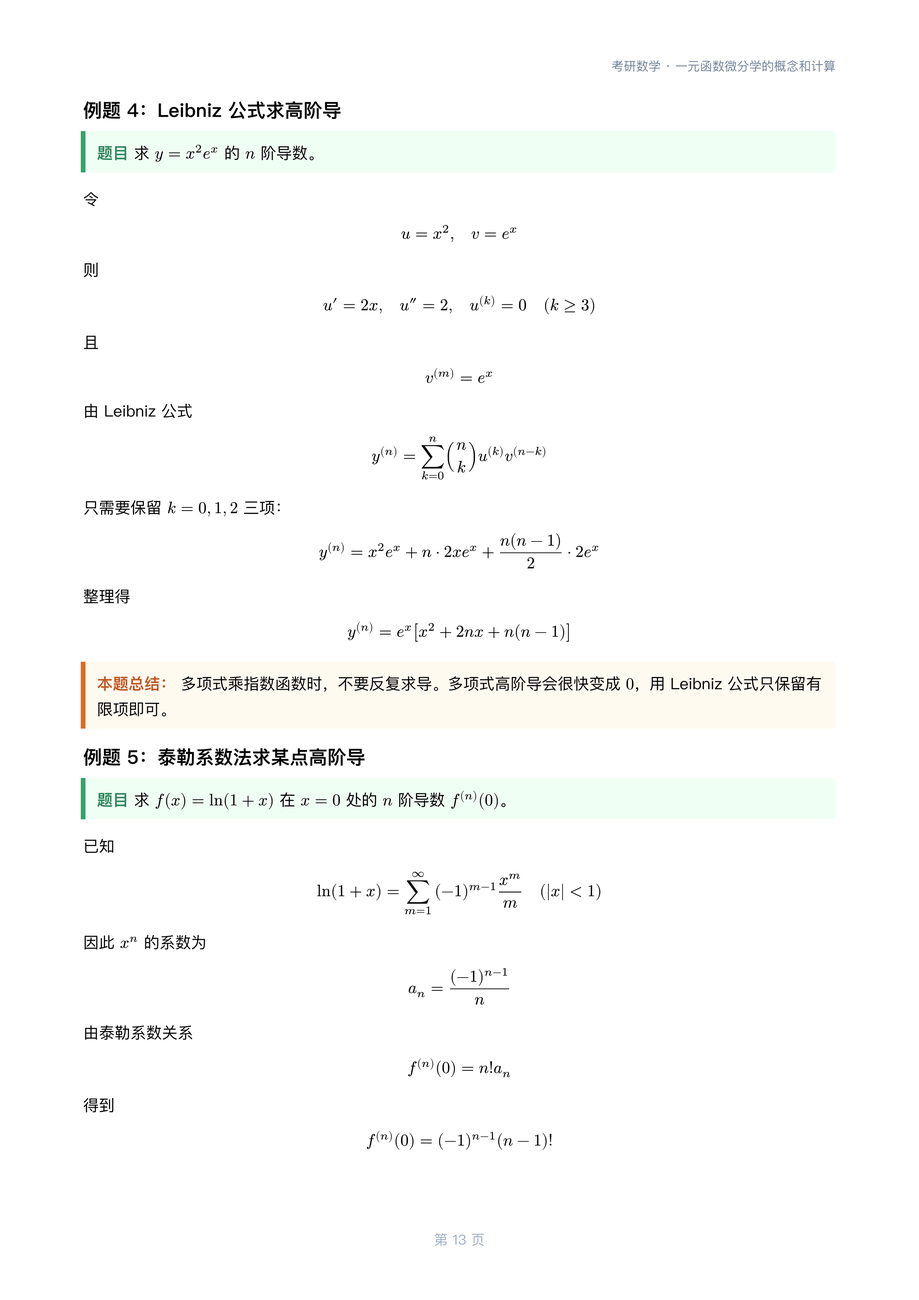
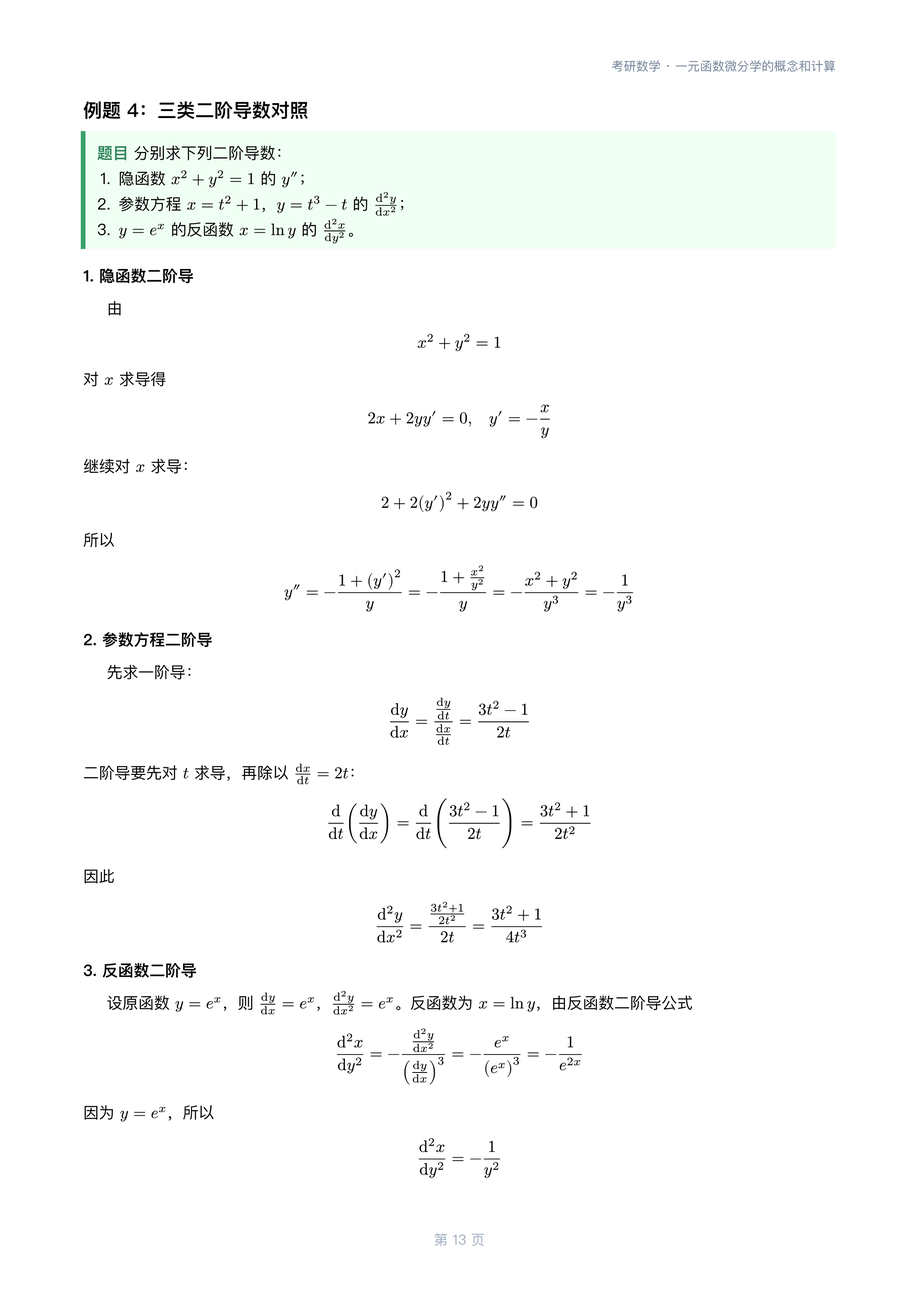
Add special second derivative methods

diff --git a/ebook/data.js b/ebook/data.js
@@ -2,10 +2,10 @@
 window.BOOK_MANIFEST = {
   "title": "考研数学电子书",
   "subtitle": "微积分 · 线性代数 · 概率论",
-  "generatedAt": "2026-08-05T10:15:49+08:00",
+  "generatedAt": "2026-08-05T10:34:04+08:00",
   "stats": {
     "documents": 23,
-    "pages": 273,
+    "pages": 274,
     "renderDpi": 260,
     "pageRenderer": "typst-direct-webp",
     "pageImageExtension": "webp",
@@ -119,7 +119,7 @@ window.BOOK_MANIFEST = {
           "sourcePath": "typst/Differential Calculus Concepts and Computation (一元函数微分学的概念和计算).typ",
           "pageImageBase": "./rendered-pages/doc-31985d1e27f4/page-",
           "pageImageExtension": "webp",
-          "pageCount": 14,
+          "pageCount": 15,
           "sections": [
             {
               "id": "doc-31985d1e27f4-s1",
@@ -1396,7 +1396,7 @@ window.BOOK_MANIFEST = {
       "sourcePath": "typst/Differential Calculus Concepts and Computation (一元函数微分学的概念和计算).typ",
       "pageImageBase": "./rendered-pages/doc-31985d1e27f4/page-",
       "pageImageExtension": "webp",
-      "pageCount": 14,
+      "pageCount": 15,
       "sections": [
         {
           "id": "doc-31985d1e27f4-s1",
@@ -2705,7 +2705,7 @@ window.SEARCH_INDEX = [
     "page": 7,
     "heading": "一元函数微分学的概念和计算",
     "snippet": "四、求导法则 1. 四则运算 若 u u x ， v v x 可导，则 u+v ' u'+v' u v ' u'v+u v' u/v ' u'v-u v' /v^2 quad v ! 0 2. 复合函数求导 若 y f u ， u g x ，则 dif y / dif x dif y / dif u dot dif u / dif x f...",
-    "text": "Differential Calculus Concepts and Computation (一元函数微分学的概念和计算) Differential Calculus Concepts and Computation 一元函数微分学的概念和计算 微积分 一元函数微分学的概念和计算 四、求导法则 1. 四则运算 若 u u x ， v v x 可导，则 u+v ' u'+v' u v ' u'v+u v' u/v ' u'v-u v' /v^2 quad v ! 0 2. 复合函数求导 若 y f u ， u g x ，则 dif y / dif x dif y / dif u dot dif u / dif x f' g x g' x 链式法则的关键是从外到内逐层求导，每层都不能漏。 3. 反函数求导 若 y f x 单调可导，且 f' x ! 0 ，其反函数 x phi y 满足 dif x / dif y 1/ dif y / dif x 常用于反三角函数和由方程确定的反函数。 4. 隐函数求导 若 F x,y 0 确定 y y x ，则两边对 x 求导，把 y 看成 x 的函数： F x+F y y' 0 若 F y ! 0 ，则 y' -F x/F y 5. 参数方程求导 若 x x t , quad y y t 且 x' t ! 0 ，则 dif y / dif x dif y / dif t / dif x / dif t y' t /x' t 二阶导数为 dif^2 y / dif x^2 dif / dif t dif y / dif x / dif x / dif t 6. 对数求导法 当函数含有乘积、商、幂指函数时，常先取对数再求导。例如 y u x ^ v x 两边取对数： ln y v ln u 再求导： y'/y v' ln u+v u'/u"
+    "text": "Differential Calculus Concepts and Computation (一元函数微分学的概念和计算) Differential Calculus Concepts and Computation 一元函数微分学的概念和计算 微积分 一元函数微分学的概念和计算 四、求导法则 1. 四则运算 若 u u x ， v v x 可导，则 u+v ' u'+v' u v ' u'v+u v' u/v ' u'v-u v' /v^2 quad v ! 0 2. 复合函数求导 若 y f u ， u g x ，则 dif y / dif x dif y / dif u dot dif u / dif x f' g x g' x 链式法则的关键是从外到内逐层求导，每层都不能漏。 3. 反函数求导 若 y f x 单调可导，且 f' x ! 0 ，其反函数 x phi y 满足 dif x / dif y 1/ dif y / dif x 常用于反三角函数和由方程确定的反函数。 若继续求二阶导，要注意现在自变量是 y ： dif^2 x / dif y^2 - dif^2 y / dif x^2 / dif y / dif x ^3 等价地，若记反函数为 g f^ -1 ，即 y g x ，则 g'' x -f'' g x / f' g x ^3 4. 隐函数求导 若 F x,y 0 确定 y y x ，则两边对 x 求导，把 y 看成 x 的函数： F x+F y y' 0 若 F y ! 0 ，则 y' -F x/F y 二阶导数可继续对 x 求导。若二阶偏导连续，则 y'' - F x x +2 F x y y'+F y y y' ^2 /F y 实际计算时也可以先求出 y' ，再把 y' 作为关于 x 的函数继续求导。 5. 参数方程求导 若 x x t , quad y y t 且 x' t ! 0 ，则 dif y / dif x dif y / dif t / dif x / dif t 二阶导数为 dif^2 y / dif x^2 dif / dif t dif y / dif x / dif x / dif t 也可写成便于代入的形式： dif^2 y / dif x^2 dif^2 y / dif t^2 dif x / dif t - dif y / dif t dif^2 x / dif t^2 / dif x / dif t ^3 6. 二阶导数的三种特殊情况 columns: 1.35fr, 2.35fr, 2.8fr , align: center, left, left , stroke: 0.5pt + rgb , fill: x, y if y 0 rgb else if calc.rem y, 2 0 rgb , 类型 , 一阶导 , 二阶导关键 , 隐函数 F x,y 0 , y' -F x/F y , 继续对 x 求导， y 仍看作 y x , 参数方程 x x t , y y t , dif y / dif x dif y / dif t / dif x / dif t , 先对 t 求导，再除以 dif x / dif t , 反函数 y f x , dif x / dif y 1/ dif y / dif x , 二阶导是对反函数自变量继续求导 , 二阶导数不是“把一阶导再随便求一次”。隐函数和普通函数是对 x 求导；参数方程要先对 t 求导再除以 dif x / dif t ；反函数要分清是求 dif^2 x / dif y^2 还是求 g'' x 。 7. 对数求导法 当函数含有乘积、商、幂指函数时，常先取对数再求导。例如 y u x ^ v x 两边取对数： ln y v ln u 再求导： y'/y v' ln u+v u'/u"
   },
   {
     "id": "doc-31985d1e27f4-p9",
@@ -2715,7 +2715,7 @@ window.SEARCH_INDEX = [
     "page": 9,
     "heading": "一元函数微分学的概念和计算",
     "snippet": "五、高阶导数与常见结构 1. 高阶导数 若 f' x 仍可导，则称其导数为二阶导数： f'' x f' x ' 依次可定义 n 阶导数 f^ n x 。 2. 常见高阶导数 columns: 2fr, 2.4fr , align: center, left , stroke: 0.5pt + rgb , fill: x, y if y 0...",
-    "text": "Differential Calculus Concepts and Computation (一元函数微分学的概念和计算) Differential Calculus Concepts and Computation 一元函数微分学的概念和计算 微积分 一元函数微分学的概念和计算 五、高阶导数与常见结构 1. 高阶导数 若 f' x 仍可导，则称其导数为二阶导数： f'' x f' x ' 依次可定义 n 阶导数 f^ n x 。 2. 常见高阶导数 columns: 2fr, 2.4fr , align: center, left , stroke: 0.5pt + rgb , fill: x, y if y 0 rgb else if calc.rem y, 2 0 rgb , 函数 , n 阶导数 , e^ a x , a^n e^ a x , sin x , 按 sin x, cos x, -sin x, -cos x 循环 , ln 1+x , -1 ^ n-1 n-1 !/ 1+x ^n , 1/ 1-x , n!/ 1-x ^ n+1 , 3. 高阶导数计算的常见处理方法 高阶导数题先判断目标：是求一般的 f^ n x ，还是只求某点处的 f^ n x 0 。前者通常需要找规律或套公式，后者常用泰勒系数最快。 columns: 1.45fr, 2.75fr, 2.75fr , align: center, left, left , stroke: 0.5pt + rgb , fill: x, y if y 0 rgb else if calc.rem y, 2 0 rgb , 方法 , 适用结构 , 核心做法 , 直接求导找规律 , 指数、三角、简单幂函数 , 先求前几阶，观察系数、符号和周期 , 循环规律法 , sin x, cos x, e^ a x sin b x 等 , 三角函数按四阶循环；指数三角可转化为幅角循环 , 奇偶周期法 , 只求 0 点高阶导或三角周期结构 , 由奇偶性先判零；由周期性把阶数按循环节取模 , 拆项与部分分式 , 有理函数、分式函数 , 先化成若干简单项，再分别求 n 阶导 , Leibniz 公式 , 两个函数乘积的 n 阶导数 , 用组合数展开，尤其适合多项式乘指数或三角 , 泰勒系数法 , 只求 x 0 点处高阶导数 , 展开 f x sum a n x-x 0 ^n ，则 f^ n x 0 n! a n , 递推关系法 , 函数满足方程、隐式关系或导数能回到自身 , 由低阶导数推出高阶导数通式 , Leibniz 公式 若 u x ,v x 有足够高阶导数，则 u v ^ n sum k 0 ^n binom n,k u^ k v^ n-k 特别地，若 u x 是 m 次多项式，则 u^ k 0 当 k m ，所以求和只保留有限几项。这个特点使 x^m e^ a x 、 x^m sin x 、 x^m cos x 的高阶导数计算明显简化。 泰勒系数法 若在 x 0 附近 f x sum n 0 ^infinity a n x-x 0 ^n 则 f^ n x 0 n! a n 这个方法适合只问某点高阶导数，例如 f^ 20 0 、 f^ n 0 。不用真的求二十次导数，只要找出对应次幂的系数。 4. 奇偶性、周期性在高阶导数中的应用 奇偶性和周期性本质上不是新的求导公式，而是“先判断结构，再减少计算量”的工具。它们常用于两类问题：一类是求 x 0 处的高阶导数，另一类是三角函数或周期函数的高阶导数。 奇偶性与高阶导数 若 f x 有足够高阶导数，则： f 为偶函数 f^ n -x -1 ^n f^ n x f 为奇函数 f^ n -x -1 ^ n+1 f^ n x 因此： - 偶函数求奇数阶导数时， f^ 2 k+1 x 是奇函数，若在 0 点有定义，则 f^ 2 k+1 0 0 。 - 奇函数求偶数阶导数时， f^ 2 k x 是奇函数，若在 0 点有定义，则 f^ 2 k 0 0 。 - 用泰勒展开理解更直接：偶函数在 0 附近只含偶次幂，奇函数只含奇次幂，所以不匹配的阶数对应系数为 0 。 周期性与高阶导数 若 f x 的周期为 T ，且 f 有足够高阶导数，则 f x+T f x f^ n x+T f^ n x 特别地， sin x ^ n sin x+ n pi /2 , quad cos x ^ n cos x+ n pi /2 使用周期性时有两个“取模”： - 对自变量取模：若 f^ n 仍以 T 为周期，则可把 x 化到熟悉区间内。 - 对阶数取模：若高阶导数按若干项循环，例如 sin x 、 cos x 每 4 阶循环，则先看 n 除以 4 的余数。 做题判断流程 1. 先看函数整体奇偶性。若只求 f^ n 0 ，优先判断该阶导数在 0 点是否必为 0 。\\ 2. 再看函数是否有周期或导数循环。三角函数通常按 4 阶循环，先把阶数对 4 取余。\\ 3. 若函数是“多项式乘三角函数”，奇偶性只能辅助判零，通式仍常用 Leibniz 公式。\\ 4. 若函数不是周期函数，例如 e^ a x sin b x 且 a ! 0 ，不能说函数周期，但可用复数或幅角形式处理导数结构。 实战选择顺序 1. 若要求 f^ n x ，先求前几阶，看是否有周期、符号或系数规律。\\ 2. 若只求 x 0 处的高阶导数，先用奇偶性判断是否为 0 ，再用泰勒系数法求非零项。\\ 3. 若函数是乘积，尤其是一项多项式乘一个容易求高阶导的函数，优先用 Leibniz 公式。\\ 4. 若函数是有理式，先做多项式除法、拆项或部分分式，再套基本高阶导公式。\\ 5. 若只求 f^ n 0 或 f^ n x 0 ，优先考虑泰勒展开或幂级数。\\ 6. 若题目给出方程关系，例如 y' a y+b 、 F x,y 0 ，可通过递推逐阶求导。 高阶导数最常见的错误是机械反复求导而不找结构。看到 n 阶导数，第一反应应是“找通式”：能循环就循环，能拆项就拆项，能用泰勒系数就不要硬求导。"
+    "text": "Differential Calculus Concepts and Computation (一元函数微分学的概念和计算) Differential Calculus Concepts and Computation 一元函数微分学的概念和计算 微积分 一元函数微分学的概念和计算 五、高阶导数与常见结构 1. 高阶导数 若 f' x 仍可导，则称其导数为二阶导数： f'' x f' x ' 依次可定义 n 阶导数 f^ n x 。 2. 常见高阶导数 columns: 2fr, 2.4fr , align: center, left , stroke: 0.5pt + rgb , fill: x, y if y 0 rgb else if calc.rem y, 2 0 rgb , 函数 , n 阶导数 , e^ a x , a^n e^ a x , sin x , 按 sin x, cos x, -sin x, -cos x 循环 , ln 1+x , -1 ^ n-1 n-1 !/ 1+x ^n , 1/ 1-x , n!/ 1-x ^ n+1 , 3. 高阶导数计算的常见处理方法 高阶导数题先判断目标：是求一般的 f^ n x ，还是只求某点处的 f^ n x 0 。前者通常需要找规律或套公式，后者常用泰勒系数最快。 columns: 1.45fr, 2.75fr, 2.75fr , align: center, left, left , stroke: 0.5pt + rgb , fill: x, y if y 0 rgb else if calc.rem y, 2 0 rgb , 方法 , 适用结构 , 核心做法 , 直接求导找规律 , 指数、三角、简单幂函数 , 先求前几阶，观察系数、符号和周期 , 循环规律法 , sin x, cos x, e^ a x sin b x 等 , 三角函数按四阶循环；指数三角可转化为幅角循环 , 奇偶周期法 , 只求 0 点高阶导或三角周期结构 , 由奇偶性先判零；由周期性把阶数按循环节取模 , 二阶特殊结构 , 隐函数、参数方程、反函数求二阶导 , 先辨认真正的自变量，再继续求导 , 拆项与部分分式 , 有理函数、分式函数 , 先化成若干简单项，再分别求 n 阶导 , Leibniz 公式 , 两个函数乘积的 n 阶导数 , 用组合数展开，尤其适合多项式乘指数或三角 , 泰勒系数法 , 只求 x 0 点处高阶导数 , 展开 f x sum a n x-x 0 ^n ，则 f^ n x 0 n! a n , 递推关系法 , 函数满足方程、隐式关系或导数能回到自身 , 由低阶导数推出高阶导数通式 , Leibniz 公式 若 u x ,v x 有足够高阶导数，则 u v ^ n sum k 0 ^n binom n,k u^ k v^ n-k 特别地，若 u x 是 m 次多项式，则 u^ k 0 当 k m ，所以求和只保留有限几项。这个特点使 x^m e^ a x 、 x^m sin x 、 x^m cos x 的高阶导数计算明显简化。 泰勒系数法 若在 x 0 附近 f x sum n 0 ^infinity a n x-x 0 ^n 则 f^ n x 0 n! a n 这个方法适合只问某点高阶导数，例如 f^ 20 0 、 f^ n 0 。不用真的求二十次导数，只要找出对应次幂的系数。 4. 奇偶性、周期性在高阶导数中的应用 奇偶性和周期性本质上不是新的求导公式，而是“先判断结构，再减少计算量”的工具。它们常用于两类问题：一类是求 x 0 处的高阶导数，另一类是三角函数或周期函数的高阶导数。 奇偶性与高阶导数 若 f x 有足够高阶导数，则： f 为偶函数 f^ n -x -1 ^n f^ n x f 为奇函数 f^ n -x -1 ^ n+1 f^ n x 因此： - 偶函数求奇数阶导数时， f^ 2 k+1 x 是奇函数，若在 0 点有定义，则 f^ 2 k+1 0 0 。 - 奇函数求偶数阶导数时， f^ 2 k x 是奇函数，若在 0 点有定义，则 f^ 2 k 0 0 。 - 用泰勒展开理解更直接：偶函数在 0 附近只含偶次幂，奇函数只含奇次幂，所以不匹配的阶数对应系数为 0 。 周期性与高阶导数 若 f x 的周期为 T ，且 f 有足够高阶导数，则 f x+T f x f^ n x+T f^ n x 特别地， sin x ^ n sin x+ n pi /2 , quad cos x ^ n cos x+ n pi /2 使用周期性时有两个“取模”： - 对自变量取模：若 f^ n 仍以 T 为周期，则可把 x 化到熟悉区间内。 - 对阶数取模：若高阶导数按若干项循环，例如 sin x 、 cos x 每 4 阶循环，则先看 n 除以 4 的余数。 做题判断流程 1. 先看函数整体奇偶性。若只求 f^ n 0 ，优先判断该阶导数在 0 点是否必为 0 。\\ 2. 再看函数是否有周期或导数循环。三角函数通常按 4 阶循环，先把阶数对 4 取余。\\ 3. 若函数是“多项式乘三角函数”，奇偶性只能辅助判零，通式仍常用 Leibniz 公式。\\ 4. 若函数不是周期函数，例如 e^ a x sin b x 且 a ! 0 ，不能说函数周期，但可用复数或幅角形式处理导数结构。 实战选择顺序 1. 若要求 f^ n x ，先求前几阶，看是否有周期、符号或系数规律。\\ 2. 若只求 x 0 处的高阶导数，先用奇偶性判断是否为 0 ，再用泰勒系数法求非零项。\\ 3. 若题目问隐函数、参数方程、反函数的二阶导，先判断真正的自变量，再选对应公式。\\ 4. 若函数是乘积，尤其是一项多项式乘一个容易求高阶导的函数，优先用 Leibniz 公式。\\ 5. 若函数是有理式，先做多项式除法、拆项或部分分式，再套基本高阶导公式。\\ 6. 若只求 f^ n 0 或 f^ n x 0 ，优先考虑泰勒展开或幂级数。\\ 7. 若题目给出方程关系，例如 y' a y+b 、 F x,y 0 ，可通过递推逐阶求导。 高阶导数最常见的错误是机械反复求导而不找结构。看到 n 阶导数，第一反应应是“找通式”：能循环就循环，能拆项就拆项，能用泰勒系数就不要硬求导。"
   },
   {
     "id": "doc-31985d1e27f4-p12",
@@ -2725,7 +2725,7 @@ window.SEARCH_INDEX = [
     "page": 12,
     "heading": "一元函数微分学的概念和计算",
     "snippet": "六、典型例题 例题 1：导数定义 题目 设 f x x^2 ，用定义求 f' x 0 。 由定义 f' x 0 lim Delta x- 0 x 0+Delta x ^2-x 0^2 / Delta x lim Delta x- 0 2 x 0 Delta x+ Delta x ^2 / Delta x lim Delta x- 0 2 ...",
-    "text": "Differential Calculus Concepts and Computation (一元函数微分学的概念和计算) Differential Calculus Concepts and Computation 一元函数微分学的概念和计算 微积分 一元函数微分学的概念和计算 六、典型例题 例题 1：导数定义 题目 设 f x x^2 ，用定义求 f' x 0 。 由定义 f' x 0 lim Delta x- 0 x 0+Delta x ^2-x 0^2 / Delta x lim Delta x- 0 2 x 0 Delta x+ Delta x ^2 / Delta x lim Delta x- 0 2 x 0+Delta x 2 x 0 例题 2：隐函数求导 题目 由方程 x^2+x y+y^2 1 确定 y y x ，求 y' 。 两边对 x 求导： 2 x+ x y '+2 y y' 0 其中 x y ' y+x y' 所以 2 x+y+x y'+2 y y' 0 整理得 x+2 y y' - 2 x+y 因此 y' - 2 x+y / x+2 y 例题 3：参数方程求导 题目 设 x t^2+1 ， y t^3-t ，求 dif y / dif x 。 有 dif x / dif t 2 t, quad dif y / dif t 3 t^2-1 当 t ! 0 时， dif y / dif x 3 t^2-1 / 2 t 例题 4：Leibniz 公式求高阶导 题目 求 y x^2 e^x 的 n 阶导数。 令 u x^2, quad v e^x 则 u' 2 x, quad u'' 2, quad u^ k 0 quad k 3 且 v^ m e^x 由 Leibniz 公式 y^ n sum k 0 ^n binom n,k u^ k v^ n-k 只需要保留 k 0,1,2 三项： y^ n x^2 e^x+n dot 2 x e^x+ n n-1 /2 dot 2 e^x 整理得 y^ n e^x x^2+2 n x+n n-1 本题总结 多项式乘指数函数时，不要反复求导。多项式高阶导会很快变成 0 ，用 Leibniz 公式只保留有限项即可。 例题 5：泰勒系数法求某点高阶导 题目 求 f x ln 1+x 在 x 0 处的 n 阶导数 f^ n 0 。 已知 ln 1+x sum m 1 ^infinity -1 ^ m-1 x^m/m quad abs x 1 因此 x^n 的系数为 a n -1 ^ n-1 /n 由泰勒系数关系 f^ n 0 n! a n 得到 f^ n 0 -1 ^ n-1 n-1 ! 本题总结 只求某一点的高阶导数时，优先看能否展开为幂级数。找到 x^n 的系数后乘以 n! ，通常比逐次求导快得多。 例题 6：奇偶性辅助判断高阶导 题目 设 f x x sin x ，求 f^ 2025 0 与 f^ 2024 0 。 因为 x 与 sin x 都是奇函数，所以 f x x sin x 是偶函数。偶函数的奇数阶导数在 0 点为 0 ，故 f^ 2025 0 0 再用泰勒展开求偶数阶： x sin x x sum k 0 ^infinity -1 ^k x^ 2 k+1 / 2 k+1 ! sum k 0 ^infinity -1 ^k x^ 2 k+2 / 2 k+1 ! 令 2 k+2 2024 ，得 k 1011 ，所以 x^2024 的系数为 -1/2023! 。由泰勒系数法 f^ 2024 0 2024! dot -1 / 2023! -2024 本题总结 奇偶性先负责“判零”，泰勒系数法再负责“求非零值”。这比直接求 2024 阶导数更稳定。 例题 7：周期性辅助判断高阶导 题目 求 y sin x 的 2026 阶导数。 sin x 的高阶导数按四阶循环： sin x - cos x - -sin x - -cos x - sin x 因为 2026 4 dot 506+2 所以第 2026 阶对应循环中的第二个余数位置： y^ 2026 -sin x 本题总结 三角函数高阶导数不要逐阶求。先把阶数对 4 取余，再确定符号与函数类型。"
+    "text": "Differential Calculus Concepts and Computation (一元函数微分学的概念和计算) Differential Calculus Concepts and Computation 一元函数微分学的概念和计算 微积分 一元函数微分学的概念和计算 六、典型例题 例题 1：导数定义 题目 设 f x x^2 ，用定义求 f' x 0 。 由定义 f' x 0 lim Delta x- 0 x 0+Delta x ^2-x 0^2 / Delta x lim Delta x- 0 2 x 0 Delta x+ Delta x ^2 / Delta x lim Delta x- 0 2 x 0+Delta x 2 x 0 例题 2：隐函数求导 题目 由方程 x^2+x y+y^2 1 确定 y y x ，求 y' 。 两边对 x 求导： 2 x+ x y '+2 y y' 0 其中 x y ' y+x y' 所以 2 x+y+x y'+2 y y' 0 整理得 x+2 y y' - 2 x+y 因此 y' - 2 x+y / x+2 y 例题 3：参数方程求导 题目 设 x t^2+1 ， y t^3-t ，求 dif y / dif x 。 有 dif x / dif t 2 t, quad dif y / dif t 3 t^2-1 当 t ! 0 时， dif y / dif x 3 t^2-1 / 2 t 例题 4：三类二阶导数对照 题目 分别求下列二阶导数：\\ 1. 隐函数 x^2+y^2 1 的 y'' ；\\ 2. 参数方程 x t^2+1 ， y t^3-t 的 dif^2 y / dif x^2 ；\\ 3. y e^x 的反函数 x ln y 的 dif^2 x / dif y^2 。 1. 隐函数二阶导 由 x^2+y^2 1 对 x 求导得 2 x+2 y y' 0, quad y' -x/y 继续对 x 求导： 2+2 y' ^2+2 y y'' 0 所以 y'' - 1+ y' ^2 /y - 1+x^2/y^2 /y - x^2+y^2 /y^3 -1/y^3 2. 参数方程二阶导 先求一阶导： dif y / dif x dif y / dif t / dif x / dif t 3 t^2-1 / 2 t 二阶导要先对 t 求导，再除以 dif x / dif t 2 t ： dif / dif t dif y / dif x dif / dif t 3 t^2-1 / 2 t 3 t^2+1 / 2 t^2 因此 dif^2 y / dif x^2 3 t^2+1 / 2 t^2 / 2 t 3 t^2+1 / 4 t^3 3. 反函数二阶导 设原函数 y e^x ，则 dif y / dif x e^x ， dif^2 y / dif x^2 e^x 。反函数为 x ln y ，由反函数二阶导公式 dif^2 x / dif y^2 - dif^2 y / dif x^2 / dif y / dif x ^3 -e^x/ e^x ^3 -1/e^ 2 x 因为 y e^x ，所以 dif^2 x / dif y^2 -1/y^2 本题总结 隐函数二阶导：继续对 x 求导；参数方程二阶导：先对参数 t 求导再除以 dif x / dif t ；反函数二阶导：先明确是 x 关于 y 的导数，不能直接把原函数二阶导取倒数。 例题 5：Leibniz 公式求高阶导 题目 求 y x^2 e^x 的 n 阶导数。 令 u x^2, quad v e^x 则 u' 2 x, quad u'' 2, quad u^ k 0 quad k 3 且 v^ m e^x 由 Leibniz 公式 y^ n sum k 0 ^n binom n,k u^ k v^ n-k 只需要保留 k 0,1,2 三项： y^ n x^2 e^x+n dot 2 x e^x+ n n-1 /2 dot 2 e^x 整理得 y^ n e^x x^2+2 n x+n n-1 本题总结 多项式乘指数函数时，不要反复求导。多项式高阶导会很快变成 0 ，用 Leibniz 公式只保留有限项即可。 例题 6：泰勒系数法求某点高阶导 题目 求 f x ln 1+x 在 x 0 处的 n 阶导数 f^ n 0 。 已知 ln 1+x sum m 1 ^infinity -1 ^ m-1 x^m/m quad abs x 1 因此 x^n 的系数为 a n -1 ^ n-1 /n 由泰勒系数关系 f^ n 0 n! a n 得到 f^ n 0 -1 ^ n-1 n-1 ! 本题总结 只求某一点的高阶导数时，优先看能否展开为幂级数。找到 x^n 的系数后乘以 n! ，通常比逐次求导快得多。 例题 7：奇偶性辅助判断高阶导 题目 设 f x x sin x ，求 f^ 2025 0 与 f^ 2024 0 。 因为 x 与 sin x 都是奇函数，所以 f x x sin x 是偶函数。偶函数的奇数阶导数在 0 点为 0 ，故 f^ 2025 0 0 再用泰勒展开求偶数阶： x sin x x sum k 0 ^infinity -1 ^k x^ 2 k+1 / 2 k+1 ! sum k 0 ^infinity -1 ^k x^ 2 k+2 / 2 k+1 ! 令 2 k+2 2024 ，得 k 1011 ，所以 x^2024 的系数为 -1/2023! 。由泰勒系数法 f^ 2024 0 2024! dot -1 / 2023! -2024 本题总结 奇偶性先负责“判零”，泰勒系数法再负责“求非零值”。这比直接求 2024 阶导数更稳定。 例题 8：周期性辅助判断高阶导 题目 求 y sin x 的 2026 阶导数。 sin x 的高阶导数按四阶循环： sin x - cos x - -sin x - -cos x - sin x 因为 2026 4 dot 506+2 所以第 2026 阶对应循环中的第二个余数位置： y^ 2026 -sin x 本题总结 三角函数高阶导数不要逐阶求。先把阶数对 4 取余，再确定符号与函数类型。"
   },
   {
     "id": "doc-70452ebbf4aa-p2",

diff --git a/ebook/sw.js b/ebook/sw.js
@@ -1,4 +1,4 @@
-const CACHE_VERSION = "20260805-parity-periodicity-derivatives";
+const CACHE_VERSION = "20260805-special-second-derivatives";
 const SHELL_CACHE = `kaoyan-math-ebook-shell-${CACHE_VERSION}`;
 const PAGE_CACHE = `kaoyan-math-ebook-pages-${CACHE_VERSION}`;
 const ACTIVE_CACHES = new Set([SHELL_CACHE, PAGE_CACHE]);
@@ -6,9 +6,9 @@ const ACTIVE_CACHES = new Set([SHELL_CACHE, PAGE_CACHE]);
 const SHELL_ASSETS = [
   "./",
   "./index.html",
-  "./style.css?v=20260805-parity-periodicity-derivatives",
-  "./data.js?v=20260805-parity-periodicity-derivatives",
-  "./app.js?v=20260805-parity-periodicity-derivatives",
+  "./style.css?v=20260805-special-second-derivatives",
+  "./data.js?v=20260805-special-second-derivatives",
+  "./app.js?v=20260805-special-second-derivatives",
 ];
 
 self.addEventListener("install", (event) => {

diff --git a/ebook/index.html b/ebook/index.html
@@ -4,7 +4,7 @@
     <meta charset="utf-8" />
     <meta name="viewport" content="width=device-width, initial-scale=1" />
     <title>考研数学电子书</title>
-    <link rel="stylesheet" href="./style.css?v=20260805-parity-periodicity-derivatives" />
+    <link rel="stylesheet" href="./style.css?v=20260805-special-second-derivatives" />
   </head>
   <body>
     <div class="app-shell">
@@ -54,7 +54,7 @@
       </main>
     </div>
 
-    <script src="./data.js?v=20260805-parity-periodicity-derivatives"></script>
-    <script src="./app.js?v=20260805-parity-periodicity-derivatives" defer></script>
+    <script src="./data.js?v=20260805-special-second-derivatives"></script>
+    <script src="./app.js?v=20260805-special-second-derivatives" defer></script>
   </body>
 </html>

diff --git a/ebook/app.js b/ebook/app.js
@@ -10,7 +10,7 @@ const PAGE_OBSERVER_MARGIN = "900px 0px";
 const BACKGROUND_PRELOAD_START_DELAY_MS = 1800;
 const BACKGROUND_PRELOAD_BATCH_DELAY_MS = 320;
 const BACKGROUND_PRELOAD_BATCH_SIZE = 2;
-const APP_VERSION = "20260805-parity-periodicity-derivatives";
+const APP_VERSION = "20260805-special-second-derivatives";
 const SERVICE_WORKER_FILE = "./sw.js";
 const BOOK_RENDER_ID = "__full_book__";
 
